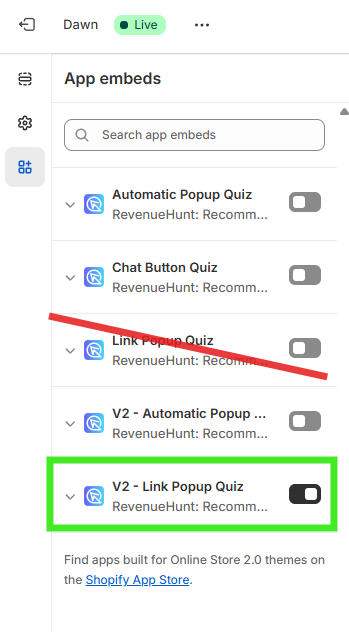
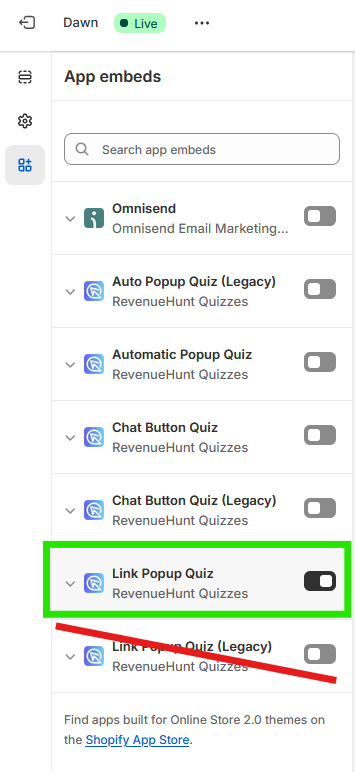
docs: update quiz link publishing instructions for Shopify, correcting references to legacy options and updating image paths for clarity

diff --git a/docs/how-to-guides/publish-quiz-link.md b/docs/how-to-guides/publish-quiz-link.md
@@ -19,8 +19,8 @@ Before you start, ensure you have:
 
     1. **Obtain the Popup Link Code**: Go to the [`Share`](/reference/quiz-builder/share-publish/) section of the app, then to `Link > Show Instructions for legacy themes`. Click on `Get the code` to copy the link provided.
     2. **Access Theme Customization**: Log in to your Shopify admin dashboard. Navigate to `Online Store > Themes`. Find your current theme and click on the `Customize` button.
-    3. **Activate App Embeds**: Go to `Online Store > Theme > Customize`. Within the theme customization area, go to `App Embeds`. Look for the Link Popup Quiz option and toggle it on. This action will automatically add the `embed.js` script to your site, enabling quiz links to load in an iframe popup.
-        ![how to publish quiz link popup app embeds](/images/how_to_publish_quiz_link_popup_app_embeds.png)
+    3. **Activate App Embeds**: Go to `Online Store > Theme > Customize`. Within the theme customization area, go to `App Embeds`. Look for the Link Popup Quiz Legacy option and toggle it on. This action will automatically add the `embed.js` script to your site, enabling quiz links to load in an iframe popup.
+        ![how to publish quiz link popup app embeds](/images/manual_shopifyV2_quizbuilder_share_publish_onlinestore_linkpopup.png)
     4. **Navigate to Your Site's Menus Settings**: From your Shopify dashboard, go to `Content > Menus`. Open the menu you wish to add the quiz link to.
         ![how to publish link popup shopify v2 menu](/images/how_to_publish_link_popup_shopify_v2_menu.png)
     5. **Add a New Menu Item**: Click on the `Add menu item` button. In the label field, type in a title for your quiz link, such as "Take Our Quiz".
@@ -44,8 +44,8 @@ Before you start, ensure you have:
     Step by step instructions:
 
     1. **Access Theme Customization**: Log in to your Shopify admin dashboard. Navigate to `Online Store > Themes`. Find your current theme and click on the `Customize` button.
-    3. **Activate App Embeds**: Go to `Online Store > Theme > Customize`. Within the theme customization area, go to `App Embeds`. Look for the Link Popup V2 Quiz option and toggle it on. This action will automatically add the `embed.js` script to your site, enabling quiz links to load in an iframe popup.
-        ![how to publish quiz link popup app embeds](/images/how_to_publish_quiz_link_popup_app_embeds.png)
+    3. **Activate App Embeds**: Go to `Online Store > Theme > Customize`. Within the theme customization area, go to `App Embeds`. Look for the Link Popup Quiz option and toggle it on. This action will automatically add the `embed.js` script to your site, enabling quiz links to load in an iframe popup.
+        ![how to publish quiz link popup app embeds](/images/manual_shopifyV2_quizbuilder_share_publish_onlinestore_linkpopup.png)
     4. **Navigate to Your Site's Menus Settings**: From your Shopify dashboard, go to `Content > Menus`. Open the menu you wish to add the quiz link to.
         ![how to publish link popup shopify v2 menu](/images/how_to_publish_link_popup_shopify_v2_menu.png)
     5. **Add a New Menu Item**: Click on the `Add menu item` button. In the label field, type in a title for your quiz link, such as "Take Our Quiz".
@@ -114,8 +114,8 @@ Before you start, ensure you have:
 
     1. **Obtain the Popup Link Code**: Go to the [`Share`](/reference/quiz-builder/share-publish/) section of the app, then to `Link > Show Instructions for legacy themes`. Click on `Get the code` to copy the link provided.
     2. **Access Theme Customization**: Log in to your Shopify admin dashboard. Navigate to `Online Store > Themes`. Find your current theme and click on the `Customize` button.
-    3. **Activate App Embeds**: Go to `Online Store > Theme > Customize`. Within the theme customization area, go to `App Embeds`. Look for the Link Popup Quiz option and toggle it on. This action will automatically add the `embed.js` script to your site, enabling quiz links to load in an iframe popup.
-        	![how to publish quiz link popup app embeds](/images/how_to_publish_quiz_link_popup_app_embeds.png)
+    3. **Activate App Embeds**: Go to `Online Store > Theme > Customize`. Within the theme customization area, go to `App Embeds`. Look for the Link Popup Quiz Legacy option and toggle it on. This action will automatically add the `embed.js` script to your site, enabling quiz links to load in an iframe popup.
+        	![how to publish quiz link popup app embeds](/images/manual_shopifyV2_quizbuilder_share_publish_onlinestore_linkpopup.png)
     4.  **Navigate to Themes**: Go to `Online Store > Themes`.
     5. **Enter Theme Customization**: Find the theme you wish to edit and click on the **"Customize"** button.
     6. **Add a New Section**: Click on **"Add section"** and select **"Image banner"** (or a similar option) from the list.
@@ -139,8 +139,8 @@ Before you start, ensure you have:
     Step by step instructions:
 
     1. **Access Theme Customization**: Log in to your Shopify admin dashboard. Navigate to `Online Store > Themes`. Find your current theme and click on the `Customize` button.
-    3. **Activate App Embeds**: Go to `Online Store > Theme > Customize`. Within the theme customization area, go to `App Embeds`. Look for the Link Popup V2 Quiz option and toggle it on. This action will automatically add the `embed.js` script to your site, enabling quiz links to load in an iframe popup.
-        	![how to publish quiz link popup app embeds](/images/how_to_publish_quiz_link_popup_app_embeds.png)
+    3. **Activate App Embeds**: Go to `Online Store > Theme > Customize`. Within the theme customization area, go to `App Embeds`. Look for the Link Popup Quiz option and toggle it on. This action will automatically add the `embed.js` script to your site, enabling quiz links to load in an iframe popup.
+        	![how to publish quiz link popup app embeds](/images/manual_shopifyV2_quizbuilder_share_publish_onlinestore_linkpopup.png)
     4.  **Navigate to Themes**: Go to `Online Store > Themes`.
     5. **Enter Theme Customization**: Find the theme you wish to edit and click on the **"Customize"** button.
     6. **Add a New Section**: Click on **"Add section"** and select **"Image banner"** (or a similar option) from the list.
@@ -411,12 +411,12 @@ In some cases, you might want to have links to different quizzes on the same pag
 
     If you see the error message "The quiz you are looking for does not exist" when trying to link to a quiz, follow these steps:
 
-    1. Ensure that you have activated the `V2 - Link Popup Quiz` in the  Online Store > Theme > Customize > `App Embeds` section and **not** the the regular `Link Popup Quiz`.
+    1. Ensure that you have activated the `Link Popup Quiz` in the  Online Store > Theme > Customize > `App Embeds` section and **not** the the legacy `Link Popup Quiz Legacy`.
         ![docs/images/how_to_publish_shipifyV2_V1publisherrorlinkpopup.png](/images/how_to_publish_shipifyV2_V1publisherrorlinkpopup.png)
 
         If a wrong link popup is activated, you will see the error message "The quiz you are looking for does not exist" when trying to link to a V2 quiz. 
         
-        To solve this simply deactivate the `Link Popup` and activate the `V2 - Link Popup` one. Then, save the changes.
+        To solve this simply deactivate the `Link Popup Legacy` and activate the `Link Popup Quiz` one. Then, save the changes.
     2. Verify that the link is correctly formatted. Ensure that the link you've added to your menu or a button is correctly formatted and it follows the format `#quiz`.
 
 === "WooCommerce"
